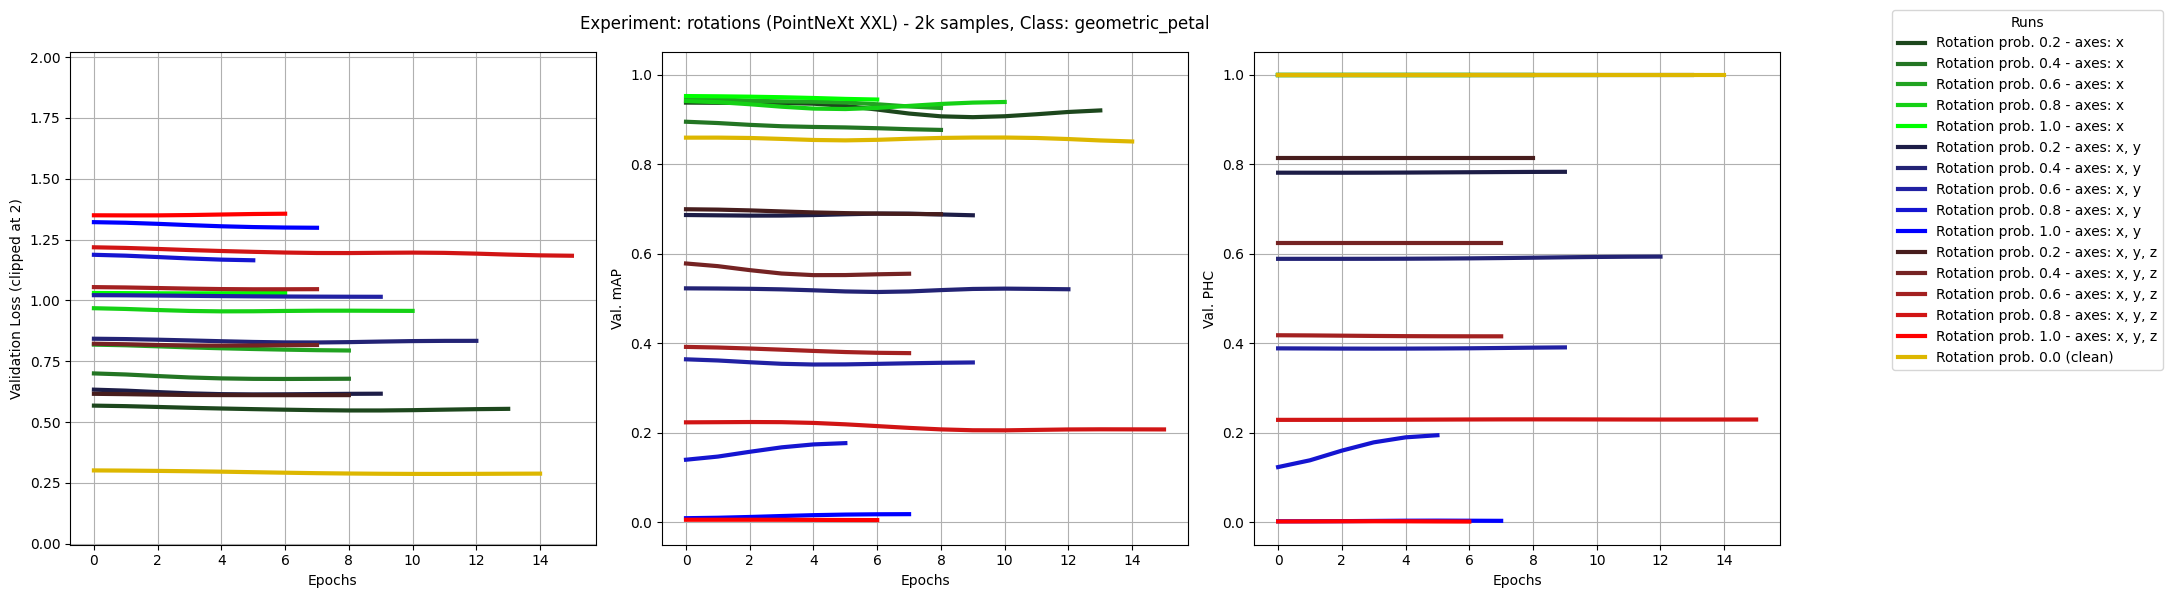
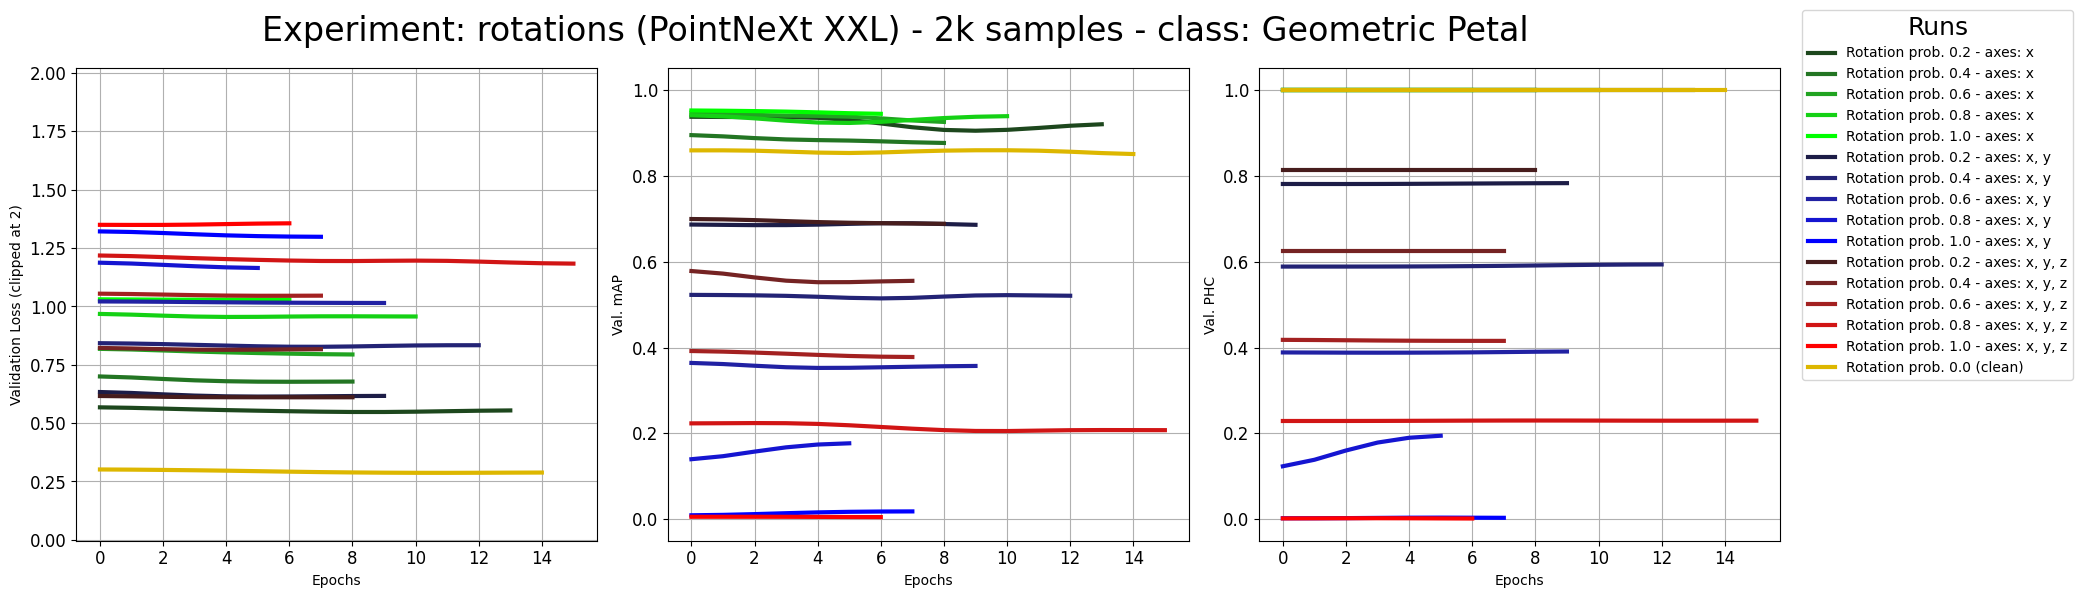
Updated 2d-graphs.py to have larger font sizes and regenerated graphs...

diff --git a/logs/2d-graphs/2d-graphs.py b/logs/2d-graphs/2d-graphs.py
@@ -14,7 +14,9 @@ from scipy.ndimage.filters import gaussian_filter1d
 EXPERIMENT_GROUPS = ['rotations-2k-samples', 'noise-undersampling-2k-samples', 'PointNeXt_XXL-rotations-2k-samples']
 #EXPERIMENT_GROUPS = ['PointNeXt_XXL-rotations-2k-samples']
 CLASSES = ['astroid', 'citrus', 'cylinder', 'egg_keplero', 'geometric_petal', 
-           'lemniscate', 'm_convexities', 'mouth_curve', 'revolution', 'square']
+		'lemniscate', 'm_convexities', 'mouth_curve', 'revolution', 'square']
+CLS_NAMES = {'astroid': 'Astroid', 'citrus': 'Citrus', 'cylinder': 'Cylinder', 'egg_keplero': 'Egg of Keplero', 'geometric_petal': 'Geometric Petal',
+		'lemniscate': 'Lemniscate', 'm_convexities': 'm-Convexities', 'mouth_curve': 'Mouth Curve', 'revolution': 'Revolution', 'square': 'Square'}
 BASE_DIR = '../../logs'
 CLIP_LOSS_AT = 2  # Clip loss at this value
 SMOOTH_SIGMA = 2
@@ -146,7 +148,9 @@ def process_class(experiment_group, class_name, clip_loss_at=-1, smooth_sigma=-1
 		exp_title = f"rotations (PointNeXt XXL) - 2k samples"
 	else:
 		exp_title = f"rotations (PointNet) - 2k samples"
-	fig.suptitle(f"Experiment: {exp_title}, Class: {class_name}")
+	suptitle = fig.suptitle(f"Experiment: {exp_title} - class: {CLS_NAMES[class_name]}")
+	suptitle_font = {'fontsize': 24}
+	suptitle.set(**suptitle_font)
 
 	ax_loss.set_ylabel('Validation Loss'+ f' (clipped at {CLIP_LOSS_AT})' if CLIP_LOSS_AT > 0 else '')
 	ax_map.set_ylabel('Val. mAP')
@@ -222,6 +226,8 @@ def process_class(experiment_group, class_name, clip_loss_at=-1, smooth_sigma=-1
 	for ax_idx, ax in enumerate([ax_loss, ax_map, ax_phc]):
 		ax.set_xlabel('Epochs')
 		ax.grid(True)
+		plt.setp(ax.get_xticklabels(), fontsize=12)
+		plt.setp(ax.get_yticklabels(), fontsize=12)
 		if ax_idx == 0:
 			if clip_loss_at > 0:
 				ax.set_ylim(-0.004, clip_loss_at + 0.01*clip_loss_at)
@@ -230,7 +236,8 @@ def process_class(experiment_group, class_name, clip_loss_at=-1, smooth_sigma=-1
 		else:
 			ax.set_ylim(-0.05, 1.05)
 
-	fig.legend(handles, labels, bbox_to_anchor=(1.05, 1), loc='upper left', title='Runs')
+	legend = fig.legend(handles, labels, prop={'size': 10}, bbox_to_anchor=(1.00, 1), loc='upper left', title='Runs')
+	plt.setp(legend.get_title(), fontsize=18)
 	plt.tight_layout()
 	plt.savefig(f"{experiment_group}-{class_name}.png", bbox_inches='tight')
 	plt.close()
